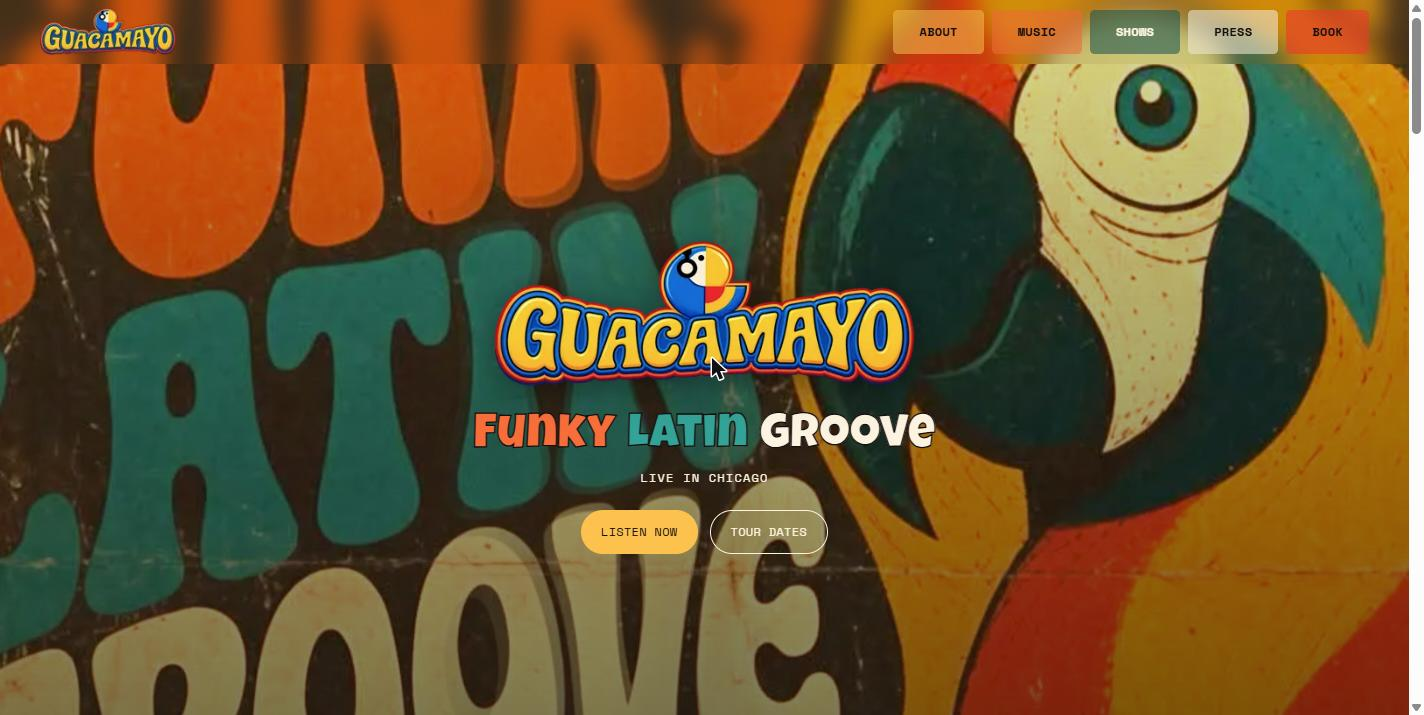
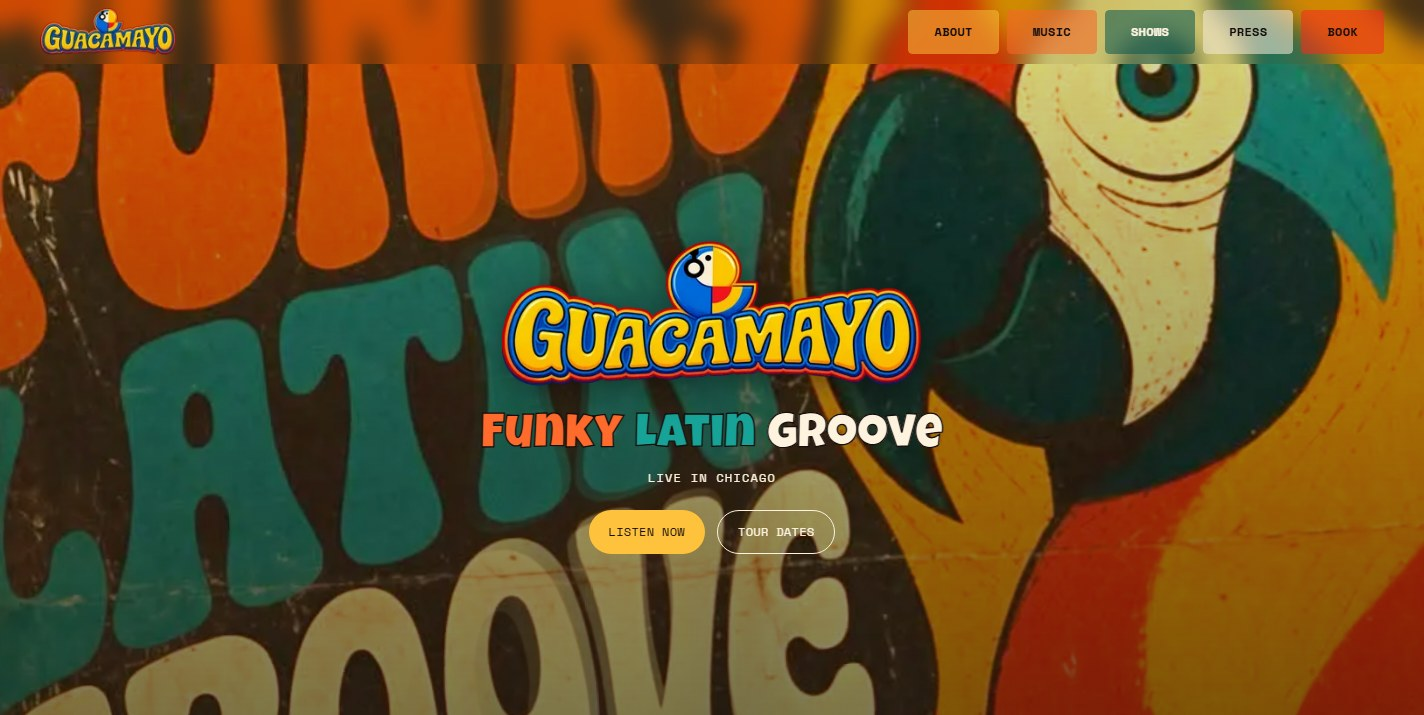
Fix strip image crops, album cover bar and Casual quote contrast
Follow-ups from the 2026-11-01 bad-cop audit.

- Customer Intake strip image re-cropped to the Name-to-Email columns so the
  strip shows a whole table instead of cutting "Created" in half. Only the strip
  copy in src/assets changed; the case-study screenshots are untouched.
- Guacamayo strip image recaptured from the live band site; the old capture had
  a scrollbar down the right edge and the mouse cursor over the logo.
- Casual quote in dark mode: opacity 0.4 to 0.65. Measured against the rendered
  section background with the text hidden, contrast went from 3.50:1 (fails AA)
  to 7.54:1. Light mode already used 0.85 (6.39:1).
- Music album cover: the compact layout's 1:1 crop kept the JPEG's 36px top
  letterbox bar. It now uses the base 818/750 crop at 50% 47%, which sits
  between the bars.
- UI_AUDIT_PLAN.md records the follow-ups and the 2026-11-01 score log rows
  (86 live re-audit, 89 good cop, 76 bad cop; the last two are judgment calls).

Verified: build, test:unit (9/9), verify-csp, check-links, full e2e across five
browsers (190 passed, 5 skipped), Lighthouse (accessibility, best-practices and
SEO assertions passed; performance gave its usual local warning at 0.78).
Doug approved the before/after artifact before this commit.

diff --git a/src/styles/global.css b/src/styles/global.css
@@ -4313,7 +4313,7 @@ html[data-theme="light"] .dr-theme-scope .wd2-hero__card-orbit img {
   font-family: 'Cormorant Garamond', Georgia, serif;
   font-size: 1.1rem;
   font-style: italic;
-  color: rgba(var(--text-rgb), 0.4);
+  color: rgba(var(--text-rgb), 0.65);
   margin: 0;
   padding-left: 1.5rem;
   border-left: 1px solid rgba(var(--accent-rgb), 0.2);
@@ -5960,11 +5960,6 @@ h2::after {
 
 .music-photo__link {
   width: 9.5rem;
-}
-
-.music-photo__img {
-  aspect-ratio: 1;
-  object-position: 50% 40%;
 }
 
 .music-text {

diff --git a/UI_AUDIT_PLAN.md b/UI_AUDIT_PLAN.md
@@ -160,6 +160,9 @@ Process note for future audits: re-score the whole page after each merge rather 
 | 2026-10-25 | 4, hero and contrast | 87 (est.) | Subtitle A, dark-mode contrast, visible field borders and tab logos |
 | 2026-10-25 | re-audit, live after #58 | 82 | First full re-score since the baseline; the running estimates overshot by 5 |
 | 2026-10-25 | 6, final polish (live after #59) | 85 | GitHub stats trimmed, Hardware Etc recaptured, Music and Contact copy; audit closed |
+| 2026-11-01 | live re-audit (desktop dark only) | 86 | Found five flaws: ArborKin gap, Guacamayo caption, Contact space, no Hardware Etc, dim Contact intro |
+| 2026-11-01 | good cop, after #68 (branch build, my judgment) | 89 | Gap closed, four projects, texture on every section; mobile and light eyeballed, not measured |
+| 2026-11-01 | bad cop, same build (my judgment) | 76 | Stock palette, Experience card kit, Skills chip wall and a small saxophone; separate lens, not comparable to the good-cop score |
 
 ## Live re-audit (2026-11-01) and follow-up polish
 
@@ -170,3 +173,10 @@ Desktop dark only, scored about 86 against the same seven areas (not logged as a
 - **Contact:** section padding went from 8rem top and bottom to 6rem top and 3.5rem bottom, which shortens the empty band above the footer.
 - **Contact intro line:** weight 300 to 400 and opacity 0.55 to 0.78 in dark mode (light mode was already 0.85).
 - **Selected Work Bauhaus layer restored** (Doug, 2026-11-01): the strip was the one section allowed to go without the texture (2026-10-25). It now has the arches layer on the right at 10% opacity, so every homepage section carries one.
+
+### Bad-cop follow-ups (2026-11-01, branch `polish-crops-cover-2026-11-01`)
+- **Intake strip image:** re-cropped from the Leads screen to the Name-to-Email columns (900×625) so the strip shows a whole table with a clean right edge instead of cutting "Created" in half. Only the strip copy in `src/assets` changed; the case-study screenshots are untouched.
+- **Guacamayo strip image:** recaptured from the live band site (1424×715, headless, 2026-11-01). The old capture showed a scrollbar down the right edge and the mouse cursor over the logo.
+- **Casual quote contrast:** measured with a screenshot of the element with its text hidden: dark mode was 3.50:1 (fails AA 4.5:1) at 40% opacity, now 7.54:1 at 65%. Light mode already used 85% (6.39:1).
+- **Album cover:** the compact Music layout forced a 1:1 crop that kept the JPEG's 36px top letterbox bar. It now uses the base `818 / 750` crop and `50% 47%` position, which sits between the bars (rows 36 to 796).
+- **Not touched:** the Experience section (Doug is overhauling it), and Hardware Etc's small in-image text.
